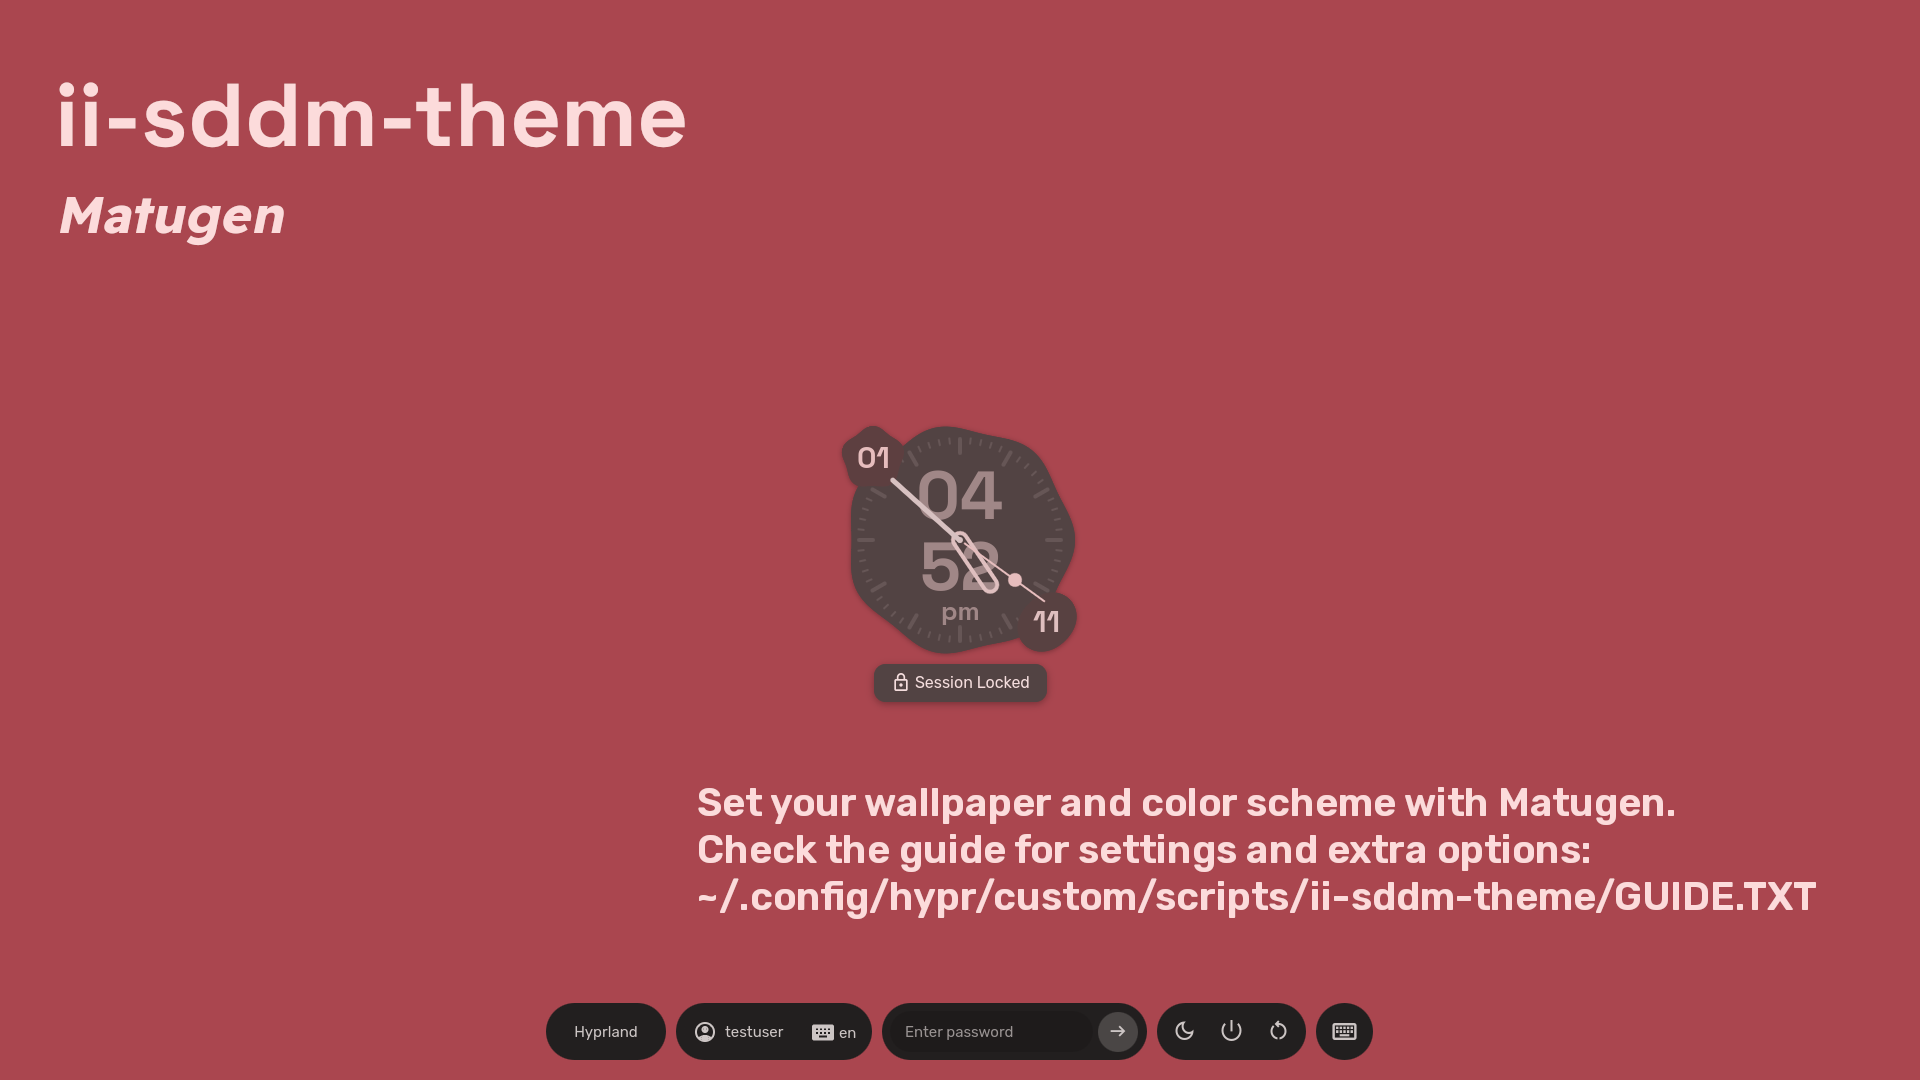
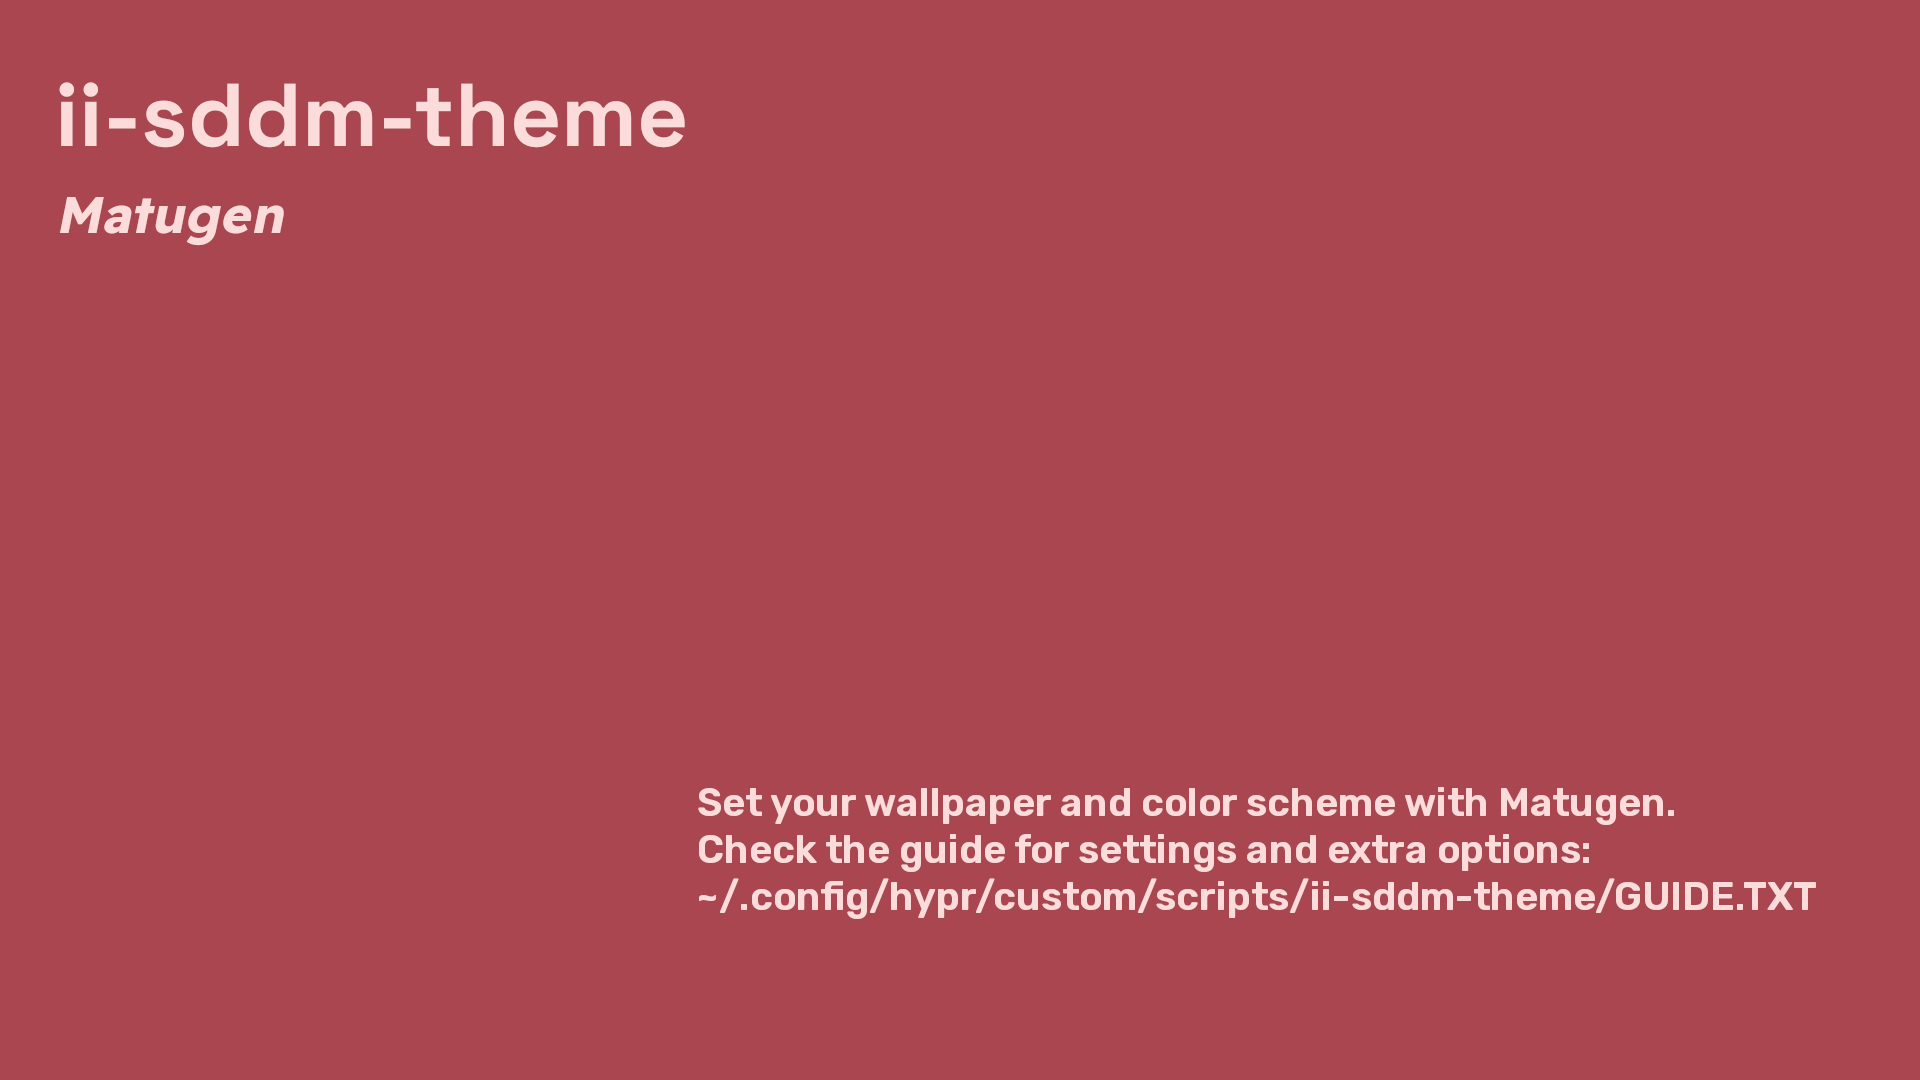
previews fix

Changed region(s): [[0.2812, 0.9167, 0.7188, 1.0], [0.4375, 0.3972, 0.5625, 0.6722]]

diff --git a/README.md b/README.md
@@ -31,21 +31,21 @@ Depending on your setup, you can choose from one to three different installation
 Settings, wallpaper, and colors automatically synced from ii configuration
 
 <p align="left">
-  <img src="https://github.com/3d3f/ii-sddm-theme/raw/main/iiMatugen/default-background/background.png" width="50%" alt="ii + Matugen" />
+  <img src="https://github.com/3d3f/ii-sddm-theme/raw/main/Previews/iiMatugen-preview.png" width="50%" alt="ii + Matugen" />
 </p>
 
 ### Matugen Integration Only
 Wallpaper and colors generated via Matugen, with manual settings configuration
 
 <p align="left">
-  <img src="https://github.com/3d3f/ii-sddm-theme/raw/main/Matugen/default-background/background.png" width="50%" alt="Matugen Only" />
+  <img src="https://github.com/3d3f/ii-sddm-theme/raw/main/Previews/Matugen-preview.png" width="50%" alt="Matugen Only" />
 </p>
 
 ### No Matugen Integration
 Manually configure your background, colors, and settings
 
 <p align="left">
-  <img src="https://github.com/3d3f/ii-sddm-theme/raw/main/noMatugen/background.png" width="50%" alt="Manual Configuration" />
+  <img src="https://github.com/3d3f/ii-sddm-theme/raw/main/Previews/noMatugen-preview.png" width="50%" alt="Manual Configuration" />
 </p>
 
 ---
